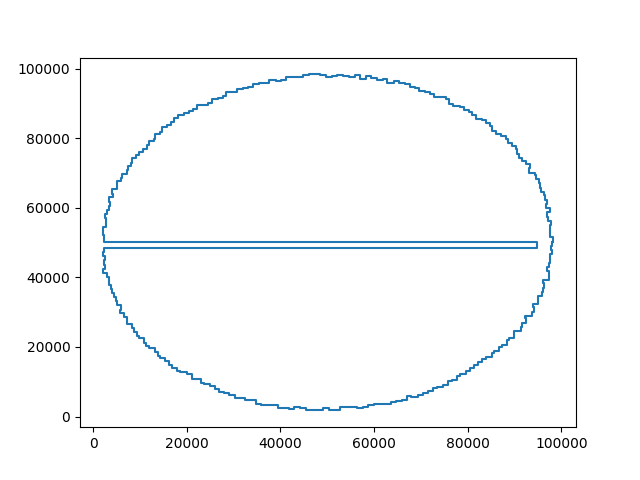
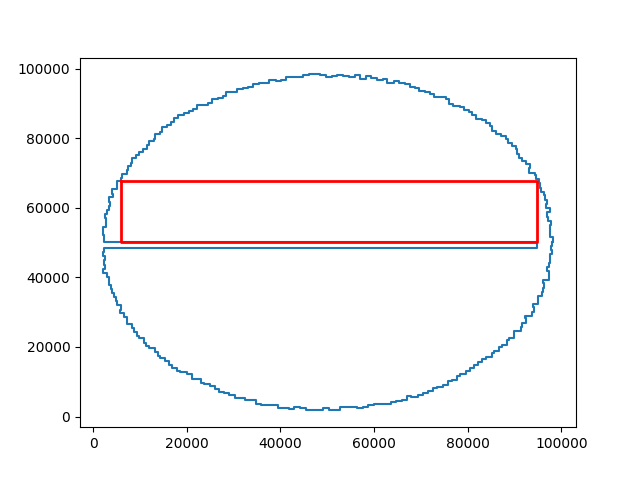
plot of 2025 09

Changed region(s): [[0.1875, 0.375, 0.8438, 0.5312]]

diff --git a/2025/go/day09/plot.py b/2025/go/day09/plot.py
@@ -9,6 +9,13 @@ import matplotlib.pyplot as plt
 def main() -> None:
     df = pd.read_csv("../../inputs/day09.txt", header=None)
     plt.plot(df[0], df[1])
+
+    p1 = (5953, 67629)
+    p2 = (94872, 50262)
+    rect_x = [p1[0], p2[0], p2[0], p1[0], p1[0]]
+    rect_y = [p1[1], p1[1], p2[1], p2[1], p1[1]]
+    plt.plot(rect_x, rect_y, 'r-', linewidth=2)
+
     plt.savefig("connected.png")
 
     print(df.head())
